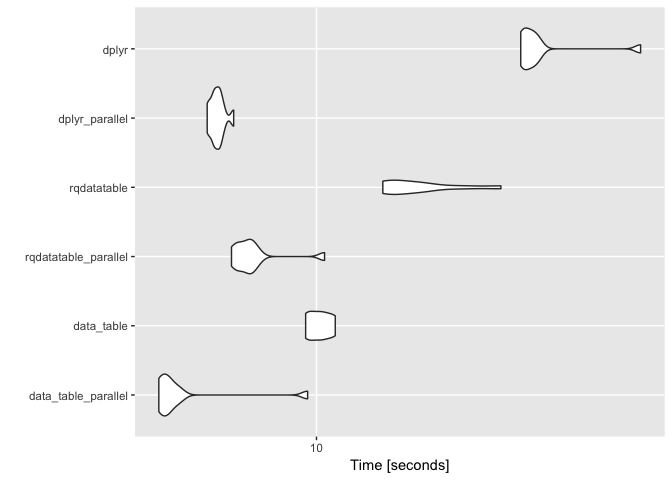
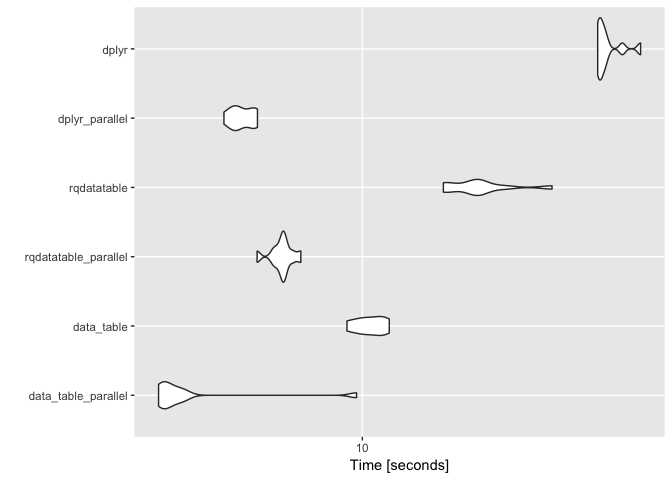
re-run

diff --git a/extras/Parallel_rqdatatable.md b/extras/Parallel_rqdatatable.md
@@ -1,7 +1,7 @@
 Parallel rqdatatable
 ================
 John Mount
-2018-06-18
+2018-07-06
 
 One can try to execute [`rquery`](https://github.com/WinVector/rquery) `relop` trees in parallel using [`rqdatatable`](https://github.com/WinVector/rqdatatable). However, unless the pipeline is very expensive the overhead of partitioning and distributing the work will usually overwhelm any parallel speedup. Also `data.table` itself already seems to exploit some thread-level parallelism (notice user time &gt; elapsed time).
 
@@ -22,6 +22,8 @@ library("WVPlots")
 library("dplyr")
 ```
 
+    ## Warning: package 'dplyr' was built under R version 3.5.1
+
     ## 
     ## Attaching package: 'dplyr'
 
@@ -37,7 +39,7 @@ library("dplyr")
 base::date()
 ```
 
-    ## [1] "Mon Jun 18 10:31:39 2018"
+    ## [1] "Fri Jul  6 10:44:00 2018"
 
 ``` r
 R.version.string
@@ -61,19 +63,19 @@ packageVersion("parallel")
 packageVersion("rqdatatable")
 ```
 
-    ## [1] '0.1.0'
+    ## [1] '0.1.2'
 
 ``` r
 packageVersion("rquery")
 ```
 
-    ## [1] '0.5.0'
+    ## [1] '0.5.1'
 
 ``` r
 packageVersion("dplyr")
 ```
 
-    ## [1] '0.7.5'
+    ## [1] '0.7.6'
 
 ``` r
 cl <- parallel::makeCluster(4)
@@ -432,23 +434,25 @@ print(timings)
 
     ## Unit: seconds
     ##                  expr       min        lq      mean    median        uq
-    ##   data_table_parallel  5.621030  5.631779  6.181647  5.794234  5.986368
-    ##            data_table  9.611018  9.675160 10.120786 10.135154 10.485123
-    ##  rqdatatable_parallel  7.330401  7.523348  7.968305  7.802969  7.921276
-    ##           rqdatatable 12.742627 13.002965 14.604160 13.967311 15.049265
-    ##        dplyr_parallel  6.707111  6.865325  6.968853  6.958092  7.039907
-    ##                 dplyr 21.091276 21.329137 22.829816 21.813852 22.428147
+    ##   data_table_parallel  5.313884  5.363753  5.927535  5.464602  5.695661
+    ##            data_table  9.535262  9.973951 10.246781 10.251915 10.669650
+    ##  rqdatatable_parallel  7.214227  7.665574  7.794417  7.824531  7.887980
+    ##           rqdatatable 12.860814 13.101827 14.389850 14.260190 14.477257
+    ##        dplyr_parallel  6.509094  6.719851  6.889578  6.825195  7.157897
+    ##                 dplyr 20.759630 20.826493 21.403284 21.028922 21.351096
     ##        max neval
-    ##   9.681078    10
-    ##  10.709166    10
-    ##  10.299280    10
-    ##  19.615581    10
-    ##   7.388646    10
-    ##  32.681440    10
+    ##   9.823738    10
+    ##  10.872768    10
+    ##   8.263357    10
+    ##  18.017306    10
+    ##   7.222479    10
+    ##  23.715786    10
 
 ``` r
 autoplot(timings)
 ```
+
+    ## Coordinate system already present. Adding new coordinate system, which will replace the existing one.
 
 ![](Parallel_rqdatatable_files/figure-markdown_github/present-1.png)
 
@@ -495,12 +499,12 @@ head(datap)
     ## # Groups:   key_group [3]
     ##   key       id   info key_group
     ##   <chr>  <int>  <dbl> <chr>    
-    ## 1 key_3      3 0.0284 15       
-    ## 2 key_5      5 0.838  15       
-    ## 3 key_9      9 0.888  2        
-    ## 4 key_10    10 0.983  7        
-    ## 5 key_15    15 0.988  2        
-    ## 6 key_19    19 0.691  2
+    ## 1 key_4      4 0.874  13       
+    ## 2 key_8      8 0.469  1        
+    ## 3 key_11    11 0.260  14       
+    ## 4 key_18    18 0.443  14       
+    ## 5 key_22    22 0.332  13       
+    ## 6 key_23    23 0.0974 1
 
 ``` r
 class(datap)
@@ -525,15 +529,15 @@ head(annotationp)
 ```
 
     ## # A tibble: 6 x 3
-    ## # Groups:   key_group [3]
+    ## # Groups:   key_group [4]
     ##   key     data key_group
     ##   <chr>  <dbl> <chr>    
     ## 1 key_1  0.481 6        
-    ## 2 key_9  0.490 2        
-    ## 3 key_11 0.348 14       
-    ## 4 key_15 0.325 2        
-    ## 5 key_18 0.476 14       
-    ## 6 key_19 0.934 2
+    ## 2 key_13 0.105 3        
+    ## 3 key_27 0.978 8        
+    ## 4 key_28 0.119 10       
+    ## 5 key_29 0.488 10       
+    ## 6 key_32 0.286 8
 
 ``` r
 class(annotationp)
